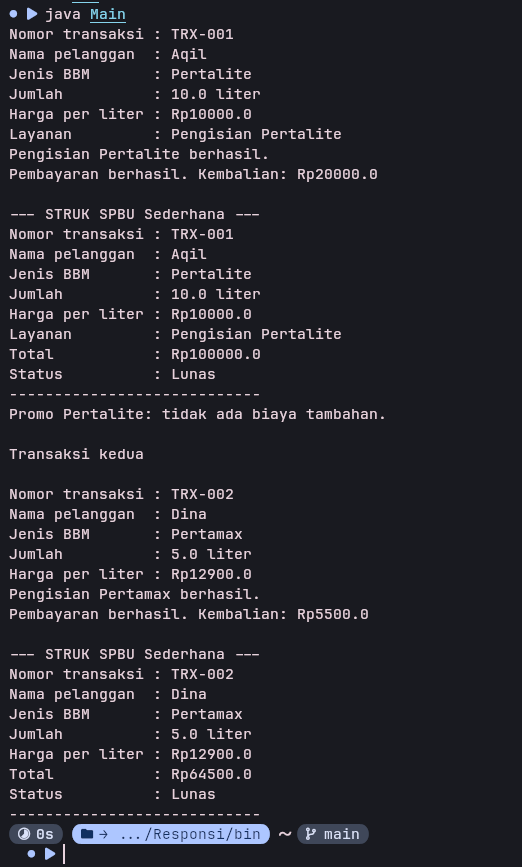
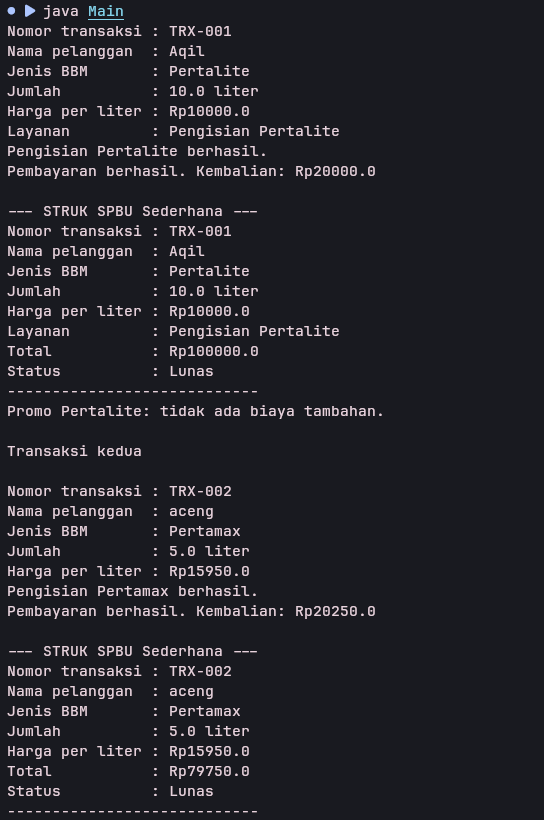
add ss

Changed region(s): [[0.0, 0.0, 0.7356, 1.0], [0.5517, 0.9451, 0.705, 0.9756]]

diff --git a/src/Main.java b/src/Main.java
@@ -10,13 +10,13 @@ public class Main {
         promoPertalite.tampilkanPromo();
 
         System.out.println("\nTransaksi kedua\n");
-        PengisianPertamax objekPertamax = new PengisianPertamax("TRX-002", "Dina");
+        PengisianPertamax objekPertamax = new PengisianPertamax("TRX-002", "aceng");
         objekPertamax.setJumlahLiter(5.0);
 
         OperasionalSPBU pertamax = objekPertamax;
         pertamax.tampilkanDetail();
         pertamax.prosesPengisian();
-        pertamax.bayar(70000.0);
+        pertamax.bayar(100000.0);
         pertamax.cetakStruk();
     }
 }

diff --git a/src/TransaksiSPBU.java b/src/TransaksiSPBU.java
@@ -1,7 +1,7 @@
 public abstract class TransaksiSPBU {
     public static final String NAMA_SPBU = "SPBU Sederhana";
     public static final double HARGA_PERTALITE = 10000.0;
-    public static final double HARGA_PERTAMAX = 12900.0;
+    public static final double HARGA_PERTAMAX = 15950.0;
 
     private final String nomorTransaksi;
     private String namaPelanggan;
